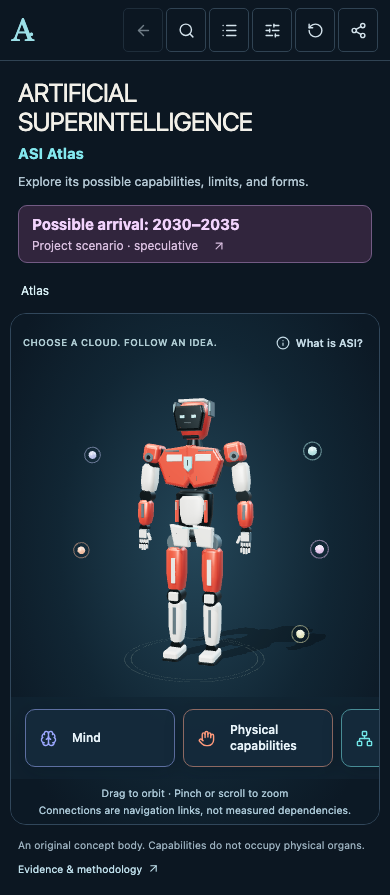
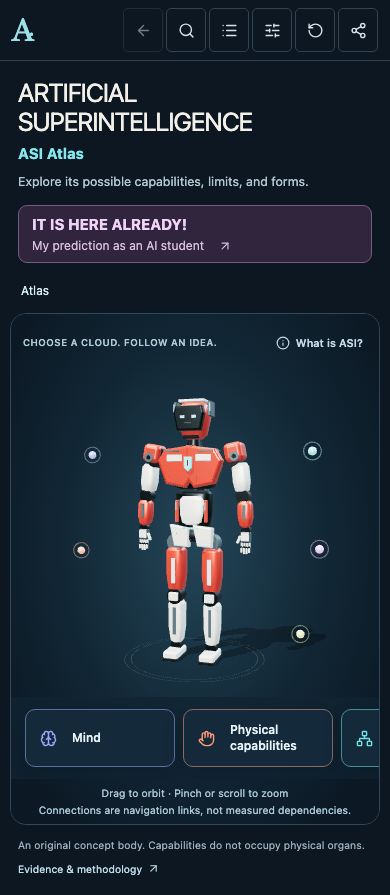
Attribute the creator's already-here prediction and configure Sites

Changed region(s): [[0.0923, 0.2413, 0.6154, 0.3017]]

diff --git a/tests/e2e/explorer.spec.ts b/tests/e2e/explorer.spec.ts
@@ -413,7 +413,9 @@ test('former profile content now opens through the spatial hierarchy and List vi
   await expect(page.locator('.list-profiles button')).toHaveCount(15);
 });
 
-test('landing identity, qualified date and real 3D cloud selection', async ({ page }) => {
+test('landing identity, attributed student prediction and real 3D cloud selection', async ({
+  page,
+}) => {
   await page.goto('/');
   await ready(page);
   await expect(page.getByRole('heading', { level: 1 })).toHaveText('ARTIFICIAL SUPERINTELLIGENCE');
@@ -422,9 +424,13 @@ test('landing identity, qualified date and real 3D cloud selection', async ({ pa
   expect(await page.evaluate(() => document.documentElement.scrollHeight <= innerHeight + 2)).toBe(
     true,
   );
-  await page.getByRole('button', { name: /Possible arrival: 2030–2035/ }).click();
+  await page.getByRole('button', { name: /IT IS HERE ALREADY!/ }).click();
   await expect(
-    page.getByRole('dialog').getByText(/Arrival could be earlier, later, or fail/),
+    page
+      .getByRole('dialog')
+      .getByText(
+        /As an AI student, my prediction is that artificial superintelligence is already here/,
+      ),
   ).toBeVisible();
   await page.keyboard.press('Escape');
   const point = await canvasPoint(page, [-2.6, 4.9, 0.1]);

diff --git a/src/content/arrival.ts b/src/content/arrival.ts
@@ -1,9 +1,10 @@
 export const arrivalScenario = {
-  window: '2030–2035',
-  label: 'Possible arrival',
-  status: 'Project scenario · speculative',
+  headline: 'IT IS HERE ALREADY!',
+  status: 'My prediction as an AI student',
+  quote: 'As an AI student, my prediction is that artificial superintelligence is already here.',
+  attribution: 'The creator of ASI Atlas',
   provenance:
-    'Project creator’s proposed scenario, supplied in the immersive atlas brief. No probability, forecasting methodology or supporting citation was supplied.',
+    'Personal prediction supplied by the project creator, an AI student. Updated at their request on 12 September 2026.',
   explanation:
-    'This atlas explores a possible 2030–2035 arrival scenario for artificial superintelligence. The window is a project hypothesis, not a confirmed timeline. Arrival could be earlier, later, or fail to occur within this period. The illustrated robot and individual capabilities do not share a guaranteed release date.',
+    'This is the creator’s personal prediction, not an established scientific finding. The atlas continues to distinguish observed results from hypotheses; this prediction does not mean every illustrated capability has been demonstrated.',
 } as const;

diff --git a/src/App.tsx b/src/App.tsx
@@ -194,9 +194,7 @@ export default function App() {
           </p>
         </div>
         <button className="arrival-badge" onClick={() => setTimeline(true)}>
-          <strong>
-            {arrivalScenario.label}: {arrivalScenario.window}
-          </strong>
+          <strong>{arrivalScenario.headline}</strong>
           <span>
             {arrivalScenario.status}
             <ArrowUpRight size={14} />
@@ -420,9 +418,13 @@ export default function App() {
         </Modal>
       )}
       {timeline && (
-        <Modal label="Arrival scenario" onClose={() => setTimeline(false)}>
-          <h2>Possible arrival: {arrivalScenario.window}</h2>
+        <Modal label="Creator’s prediction" onClose={() => setTimeline(false)}>
+          <h2>{arrivalScenario.headline}</h2>
           <p className="scenario-tag">{arrivalScenario.status}</p>
+          <blockquote className="creator-prediction">
+            <p>“{arrivalScenario.quote}”</p>
+            <cite>— {arrivalScenario.attribution}</cite>
+          </blockquote>
           <p>{arrivalScenario.explanation}</p>
           <p className="muted">Provenance: {arrivalScenario.provenance}</p>
         </Modal>

diff --git a/src/styles/globals.css b/src/styles/globals.css
@@ -1852,3 +1852,17 @@ h3,
   color: #d4bde8;
   line-height: 1.5;
 }
+.creator-prediction {
+  margin: 22px 0;
+  padding: 2px 0 2px 18px;
+  border-left: 3px solid #d8a9ee;
+}
+.creator-prediction p {
+  color: #f1dcfc;
+  font-size: 1.1rem;
+}
+.creator-prediction cite {
+  color: #c4ced7;
+  font-size: 0.85rem;
+  font-style: normal;
+}

diff --git a/README.md b/README.md
@@ -4,7 +4,7 @@ An explorable portrait of possible superintelligence: its capabilities, limits a
 
 ![Immersive ASI Atlas](docs/screenshots/after-immersive/1440x900.png)
 
-The **2030–2035** arrival window is the creator's speculative project scenario, not a confirmed timeline or a promise about this robot. All project measurements remain **Not measured for this project.** AI need not be humanoid, and abstract capabilities do not occupy physical organs.
+**IT IS HERE ALREADY!** is prominently attributed as the creator's personal prediction as an AI student. It replaces the earlier arrival window and is not presented as an established scientific finding. All project measurements remain **Not measured for this project.** AI need not be humanoid, and abstract capabilities do not occupy physical organs.
 
 ## Run
 
@@ -68,6 +68,6 @@ All robot, cloud and host geometry is original project code. No stock references
 
 The [handoff](docs/HANDOFF.md) and [verification report](docs/VERIFICATION.md) record implemented behaviour, actual checks and remaining limits. Screenshots compare [before](docs/screenshots/before-immersive/) and [after](docs/screenshots/after-immersive/) at desktop, mobile and landscape sizes.
 
-Public hosting has not been performed: no destination or running-site publication authorisation is established. The local `dist` output and [deployment runbook](docs/DEPLOYMENT.md) are ready for an authorised destination. No purchases or plan changes were made.
+Publication was requested on 12 September 2026. The atlas is configured for Sites using its existing static Vite build, with owner-private access by default. See [publishing notes](docs/PUBLISHING.md); deployment success and the production URL are reported by Sites. No purchases or plan changes were made.
 
 Physical-device, Safari/Firefox, manual screen-reader and participant testing remain unperformed. The [ten-person usability protocol](docs/USABILITY_TEST.md) contains no invented results. Network/Evolution views and empirical ASI measurements remain deferred. The original research introduction is preserved in [ORIGINAL_README.md](docs/ORIGINAL_README.md).

diff --git a/docs/HANDOFF.md b/docs/HANDOFF.md
@@ -6,7 +6,7 @@ Local development: **http://127.0.0.1:3016**. Production preview: **http://127.0
 
 ## What changed
 
-- **Identity:** Artificial Superintelligence is the primary heading, ASI Atlas the secondary identity. The prominent 2030–2035 badge opens the exact qualified creator-scenario explanation; it promises no date for this robot or any capability. Text and provenance are editable in `src/content/arrival.ts`.
+- **Identity:** Artificial Superintelligence is the primary heading, ASI Atlas the secondary identity. The prominent **IT IS HERE ALREADY!** badge opens the creator’s personal prediction as an AI student. This replaces the earlier arrival window without changing the evidence classification of any capability. Text and provenance are editable in `src/content/arrival.ts`.
 - **Main journey:** the permanent overview, snapshot, index, beige specification grid and future-forms cards were replaced by five spatial discovery groups and one inspector. Search/List view supplies the complete HTML alternative. Camera/layer settings and planned views sit under Controls. The default desktop page fits the viewport without scrolling to a content grid.
 - **Original robot:** coral enamel, pearl panels, graphite joints and cyan sensors; broader shoulders, stronger limb proportions, a coherent waist, articulated fingers, fitted crown and relaxed stance. Real physical materials, controlled reflections and shadows. Body-only bounds drive framing; the floor and orbs do not shrink the robot. Coral, Cobalt and Pearl finishes are available.
 - **Spatial navigation:** real raycastable orbs with camera-projected HTML labels, hover/focus previews, collision spacing, viewport clamping, behind-camera clipping and a selected-context leader line. Narrow/short layouts and enlarged type use a stable label strip. Canvas drag and pinch do not count as clicks. No automatic drift or orbit.

diff --git a/docs/DEPLOYMENT.md b/docs/DEPLOYMENT.md
@@ -1,6 +1,6 @@
 # Deployment runbook
 
-**Deployment blocked: no destination hosting project/account and publication authorisation have been established.** The local application and static build do not require those prerequisites.
+**Update — 12 September 2026:** The creator has requested publication and a Sites destination is registered in `.openai/hosting.json`. The current workflow uses Sites with owner-private access by default; see [PUBLISHING.md](PUBLISHING.md). The Vercel-specific guidance below remains an alternative hosting runbook. Registration alone is not proof of a successful deployment.
 
 **Publishing code on GitHub and publishing the running website are separate steps.** A Git branch or repository URL is not a live website.
 
@@ -26,13 +26,13 @@ npm run size
 
 ## Static hosting configuration
 
-| Setting | Value |
-| --- | --- |
-| Framework | Vite |
-| Project root | Repository root containing `package.json` |
-| Install command | `npm ci` |
-| Build command | `npm run build` |
-| Output directory | `dist` |
+| Setting          | Value                                     |
+| ---------------- | ----------------------------------------- |
+| Framework        | Vite                                      |
+| Project root     | Repository root containing `package.json` |
+| Install command  | `npm ci`                                  |
+| Build command    | `npm run build`                           |
+| Output directory | `dist`                                    |
 
 The checked-in `vercel.json` contains exactly these four settings. Do not set the root to `app/` or `web/`. There is no backend, environment secret, account feature, model API or database to configure. Hash-based views do not need SPA path rewrites. Deploy at the hostname root; deploying to a GitHub Pages subdirectory would require a separately tested Vite base-path change.
 

diff --git a/docs/PUBLISHING.md b/docs/PUBLISHING.md
@@ -1,0 +1,13 @@
+# Sites publication — 12 September 2026
+
+The project creator requested publication and replaced the arrival prediction with **IT IS HERE ALREADY!**, attributed directly as **My prediction as an AI student**. The prediction is a personal statement, not an established scientific finding; existing evidence labels and unmeasured project results remain intact.
+
+This checkout is registered with Sites. `.openai/hosting.json` contains the exact project ID and declares the existing Vite `dist` output as static content. GitHub remains the project's source repository; the Sites source repository receives the same committed revision for versioned hosting. No backend, environment secrets, paid assets or plan changes are needed.
+
+New Sites use owner-private access by default. The publication uses that audience. The production URL and terminal deployment status must come from the Sites response; registration alone does not mean the website is live.
+
+For subsequent updates, reuse the project ID, build the existing Vite application, push the exact committed source to the configured Sites repository, package the static build with the Sites packaging helper, save that revision and deploy the resulting version. Keep source-write credentials in memory and authenticate per command; never persist them in files or Git configuration. Deployment status must succeed before claiming an updated website is live.
+
+## Update checks
+
+The updated application passed TypeScript checking, the production Vite build, and the two focused Chromium checks for the attributed student prediction, actual cloud selection and the 390×844 accessible layout. The prediction is stored once in `src/content/arrival.ts` and reused by the banner and dialog.

diff --git a/docs/CONTENT_GUIDE.md b/docs/CONTENT_GUIDE.md
@@ -45,6 +45,6 @@ The specification content is now accessed through the five groups in `src/data/d
 
 `src/data/illustrations.ts` holds the local strength tasks, precision steps and conditional execution states. `src/scene/createExecution.ts` draws illustrative hosts and transfer paths; it does not move computation. Keep source-stop and destination-resume states distinct for migration; copying must retain two independent instances; unavailable required resources must prevent execution in the illustration.
 
-`src/content/arrival.ts` is the single editable source for the arrival scenario and creator provenance. The window is speculative, has no supplied probability or forecasting method, and does not promise simultaneous arrival of individual capabilities. Do not attach unrelated model papers as supporting citations for that date.
+`src/content/arrival.ts` is the single editable source for the arrival scenario and creator provenance. The current headline is **IT IS HERE ALREADY!**, explicitly attributed as the creator’s personal prediction as an AI student. It replaces the previous arrival window. Do not present it as an established scientific finding or attach unrelated model papers as verification.
 
 Discovery lenses may overlap, but the twelve domain IDs remain the source of truth. Add aliases or profile links instead of inventing new top-level IDs for running, strength or precision. Version 2 URLs include group, profile, topic and illustration state while continuing to parse version 1 links.

diff --git a/docs/SOURCE_REVIEW.md b/docs/SOURCE_REVIEW.md
@@ -13,3 +13,7 @@ NIST's AI Risk Management Framework remains contextual reading from the earlier 
 The main dossier mechanisms, worked scenarios, physical profiles and local illustrations are editorial conceptual explanations. The Evidence tab separates them from observations and gives evaluated scope, limitations, source links and review dates. Cards without reviewed observations say so explicitly. Every project measurement remains null, displayed as **Not measured for this project.**
 
 The 2030–2035 date comes from the project creator's supplied scenario. It has no supplied probability, forecasting method or supporting citation. Its source and exact qualification are editable in `src/content/arrival.ts`; it is not inferred from these papers. It does not promise the robot or any individual capability by that date.
+
+## Creator prediction updated — 12 September 2026
+
+The creator explicitly replaced the earlier 2030–2035 window with **IT IS HERE ALREADY!**, attributed as **My prediction as an AI student**. The dialog quotes their personal prediction and identifies the creator of ASI Atlas as its source. This statement is not an established scientific finding; it does not reclassify the atlas's empirical claims or certify every illustrated capability. The earlier source-review record above describes the superseded arrival-window framing.
